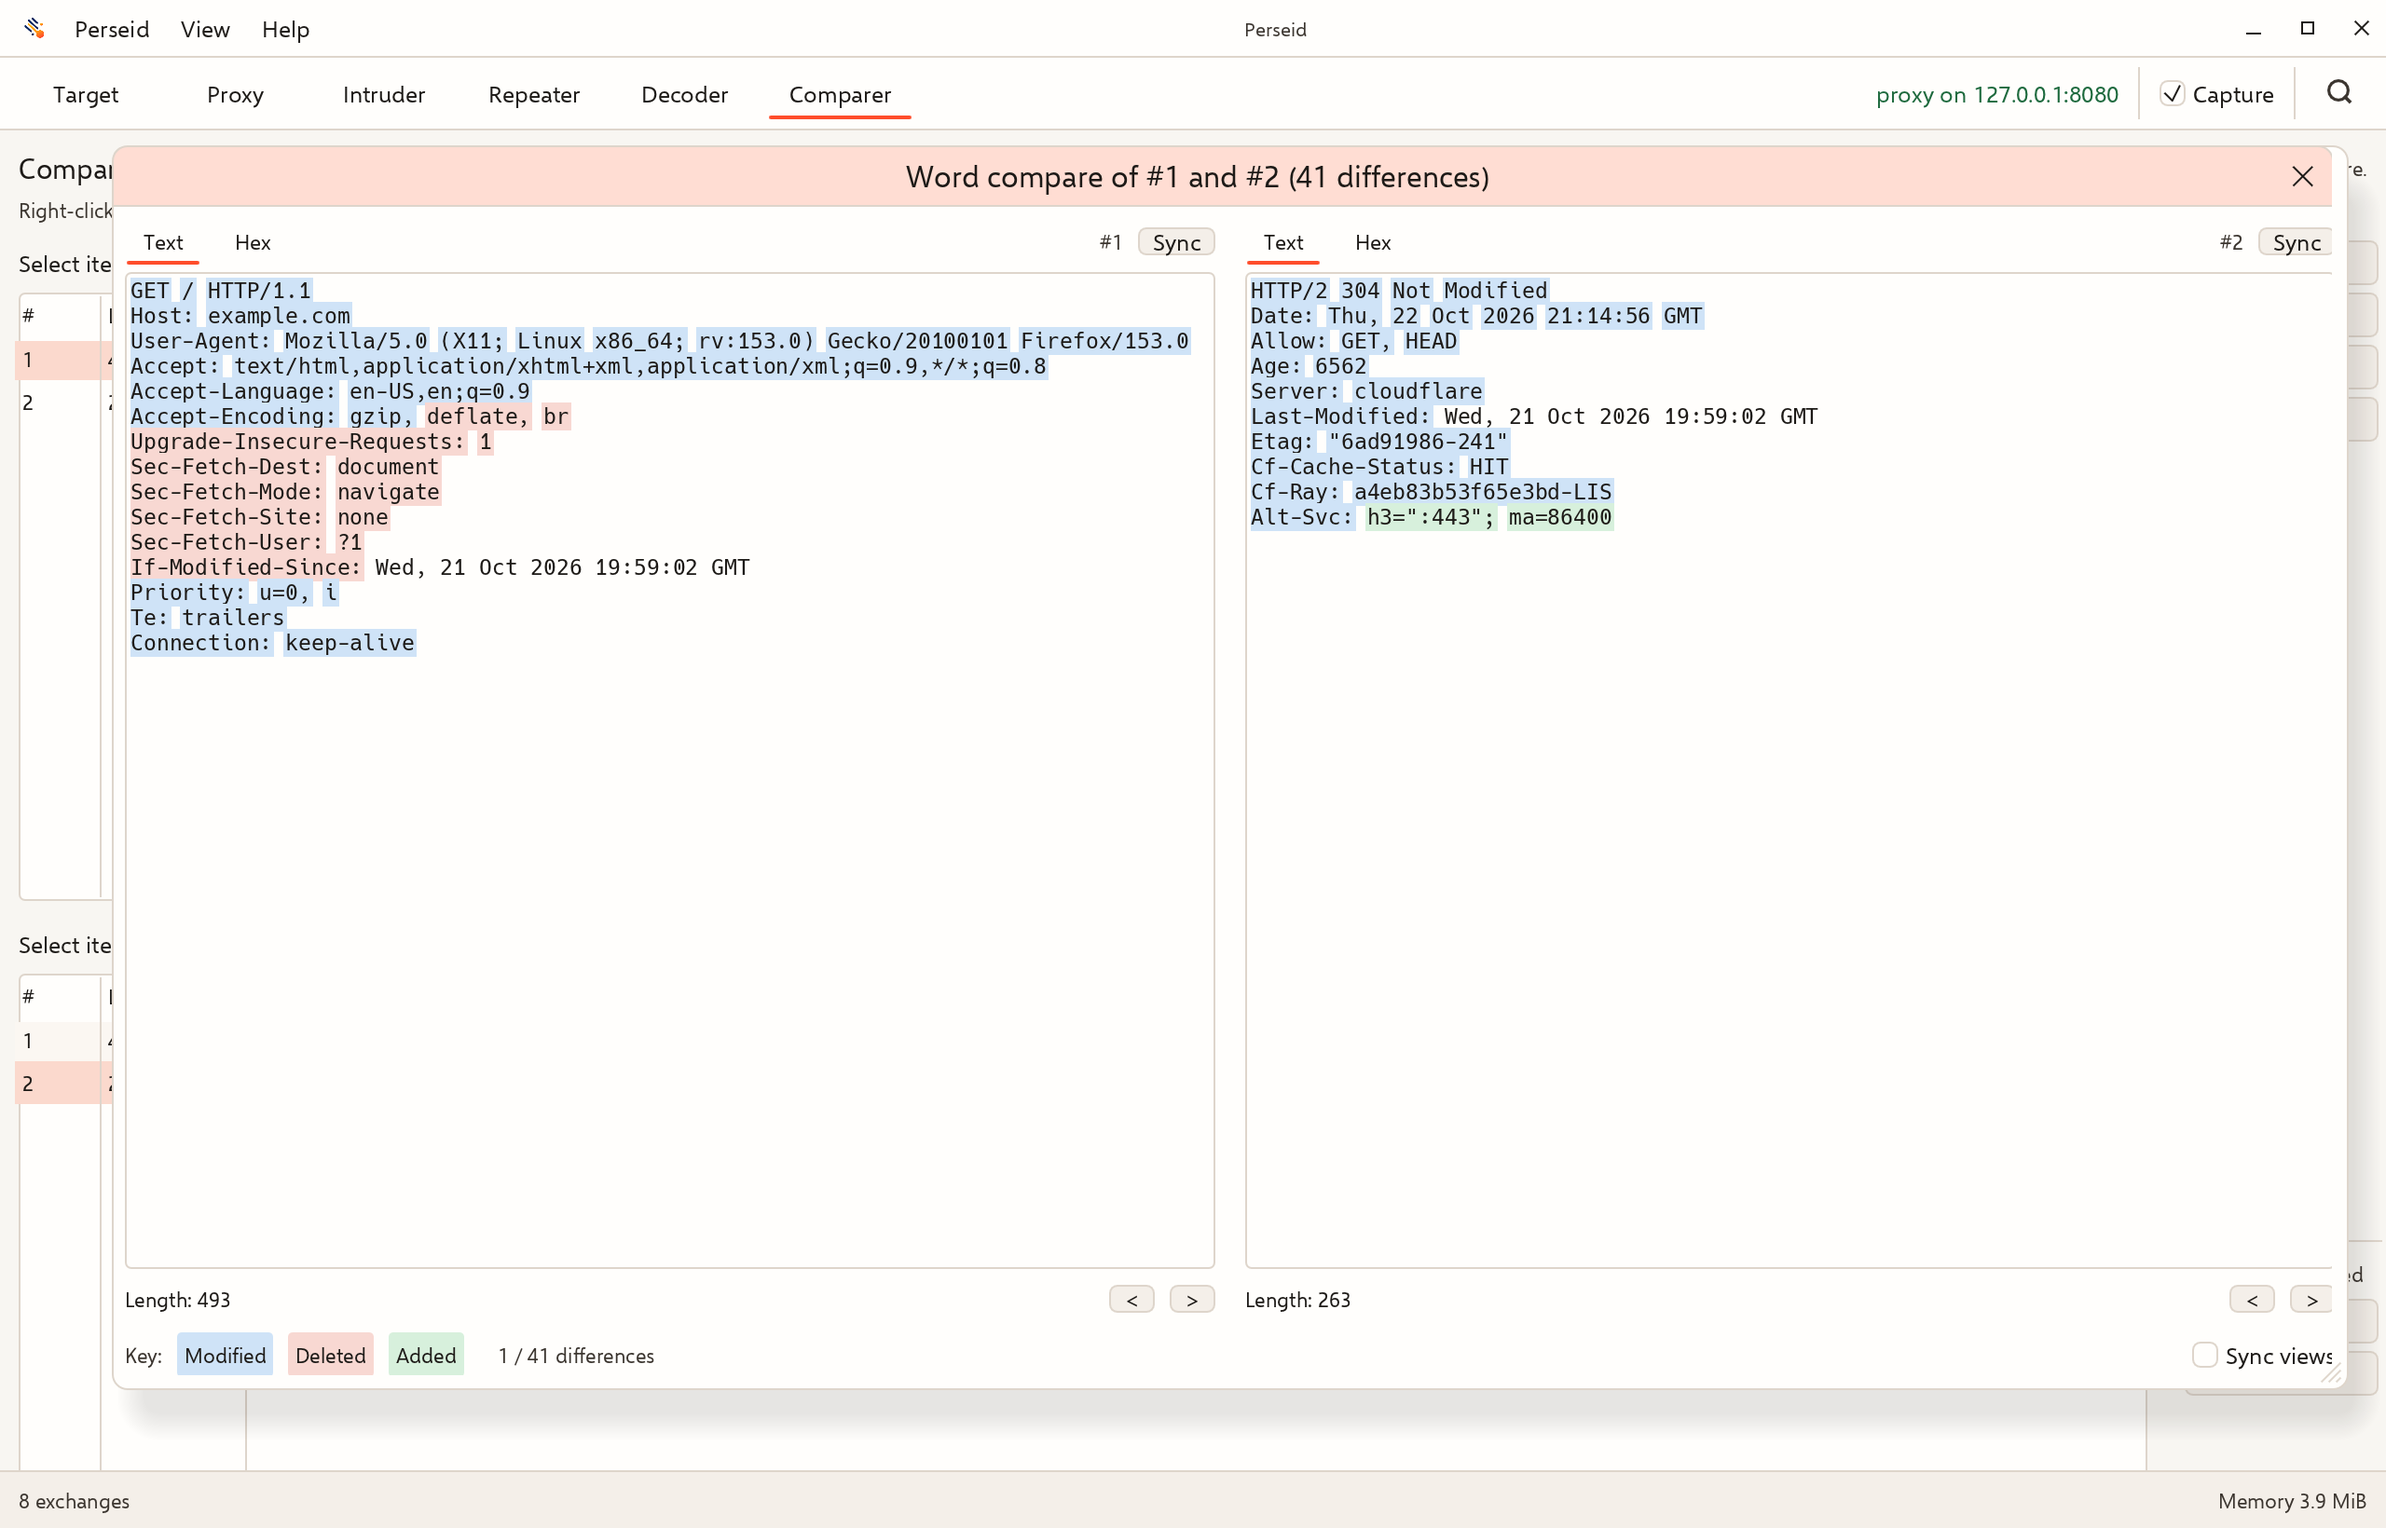
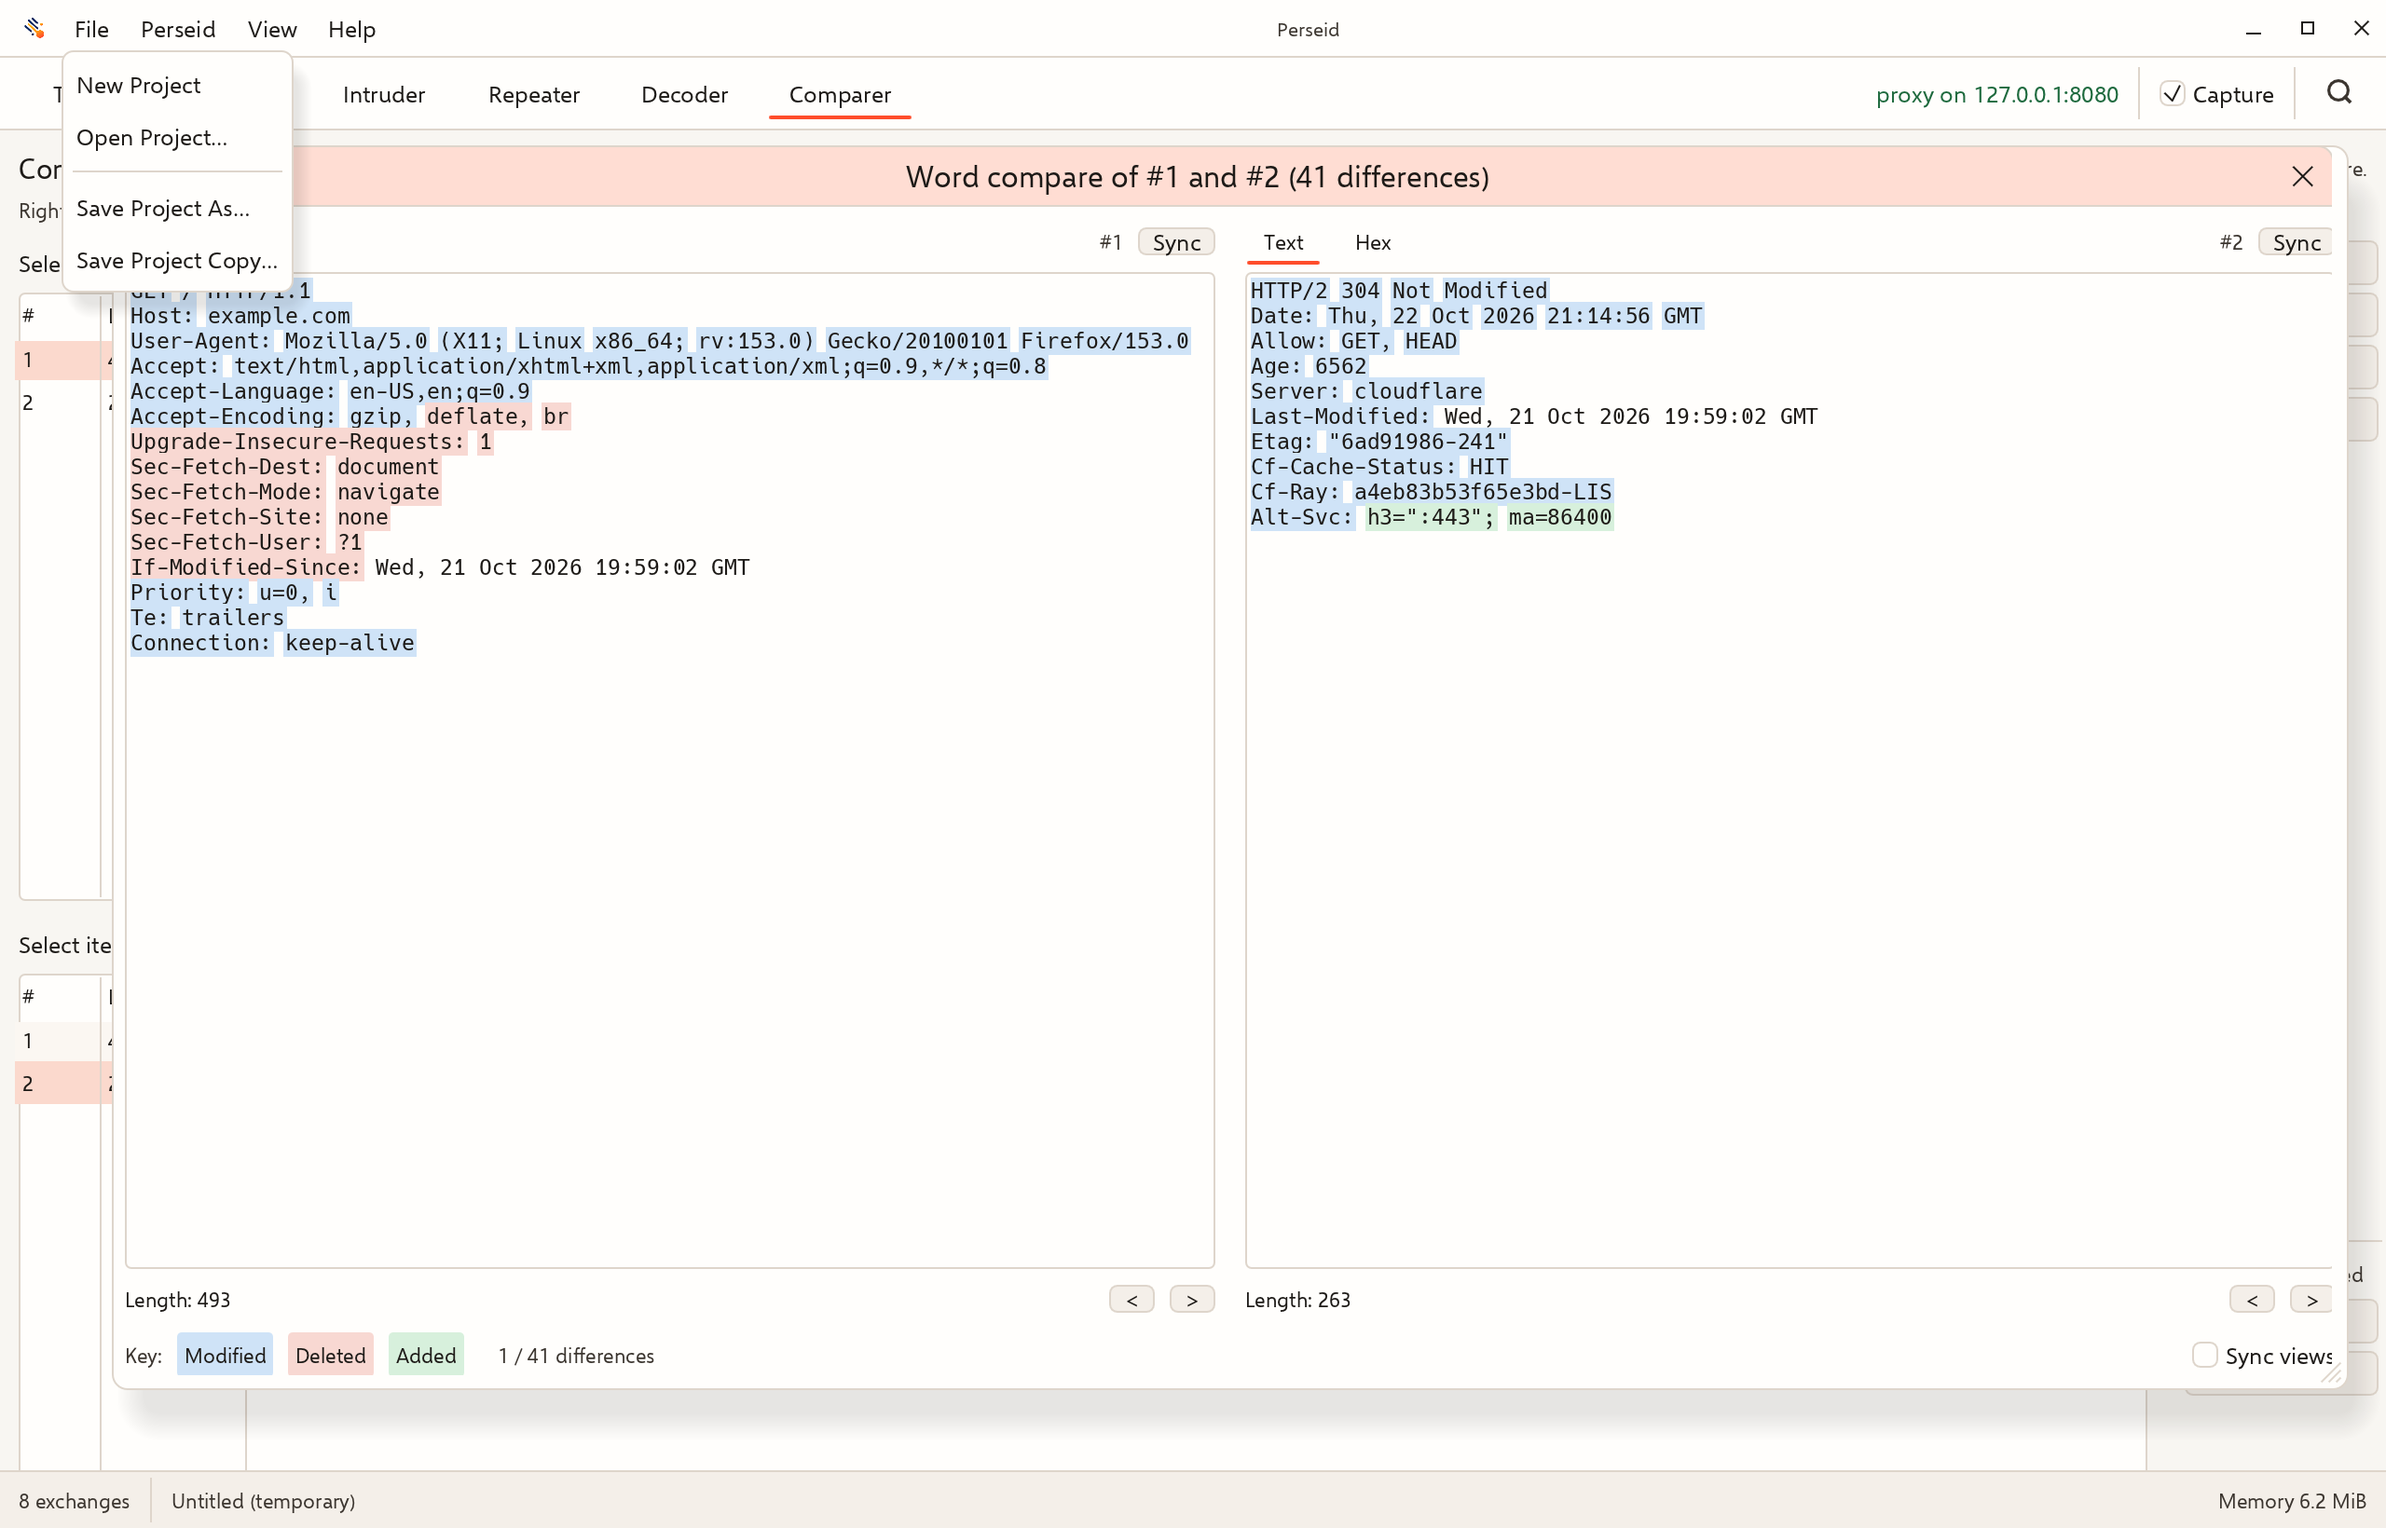
Fix the Windows path test and add the project screenshot scene
- Compare the copy-default path as a path, not a string: Windows renders
  the separator differently (`/tmp\session-copy.perseid`).
- Add a `perseid-project.png` scene with the File menu open over the HTTP
  history, showing New/Open/Save As/Save Copy and the temporary-project
  status. The screenshot driver forces the menu popup open; the hook is
  compiled only with the `screenshots` feature.
- Register the new scene in the CI preview list, the verifier and
  docs/screenshots.md, and regenerate docs/images.

Changed region(s): [[0.0312, 0.0, 0.1562, 0.2177], [0.0625, 0.964, 0.125, 0.9951], [0.5312, 0.0, 0.5625, 0.0311]]

diff --git a/crates/perseid/src/app/screenshots.rs b/crates/perseid/src/app/screenshots.rs
@@ -49,6 +49,7 @@ const TIMEOUT: Duration = Duration::from_secs(150);
 /// `docs/screenshots.md`, and add a label in the Screenshots workflow.
 const SCENE_FILES: &[&str] = &[
     MAIN_FILE,
+    "perseid-project.png",
     "perseid-target-site-map.png",
     "perseid-target-scope.png",
     "perseid-proxy-intercept.png",
@@ -313,17 +314,23 @@ impl PerseidApp {
         self.decoder = DecoderState::new();
         self.comparer = ComparerState::new();
         self.search = SearchState::default();
+        self.project.file_menu_forced_open = false;
 
         match index {
             // Proxy > HTTP history (the README scene).
             0 => {}
-            // Target > Site map.
+            // Projects: the File menu open over the HTTP history, with the
+            // temporary-project status visible in the status bar.
             1 => {
+                self.project.file_menu_forced_open = true;
+            }
+            // Target > Site map.
+            2 => {
                 self.main_tab = MainTab::Target;
                 self.target_section = TargetSection::SiteMap;
             }
             // Target > Scope.
-            2 => {
+            3 => {
                 self.main_tab = MainTab::Target;
                 self.target_section = TargetSection::Scope;
                 self.scope_enabled = true;
@@ -332,13 +339,13 @@ impl PerseidApp {
                 self.scope.insert("127.0.0.1:8090".to_string());
             }
             // Proxy > Intercept with a small queue of held messages.
-            3 => {
+            4 => {
                 self.main_tab = MainTab::Proxy;
                 self.proxy_section = ProxySection::Intercept;
                 self.seed_screenshot_intercepts();
             }
             // Proxy > Match/replace.
-            4 => {
+            5 => {
                 self.main_tab = MainTab::Proxy;
                 self.proxy_section = ProxySection::MatchReplace;
                 self.match_replace = vec![
@@ -369,19 +376,19 @@ impl PerseidApp {
                 ];
             }
             // Proxy > TLS.
-            5 => {
+            6 => {
                 self.main_tab = MainTab::Proxy;
                 self.proxy_section = ProxySection::Tls;
                 self.tls_intercept = true;
                 self.tls_passthrough.push("banking.example.com".to_string());
             }
             // Intruder with a populated template, payload set, and results.
-            6 => {
+            7 => {
                 self.main_tab = MainTab::Intruder;
                 self.intruder.seed_screenshot();
             }
             // Repeater with two seeded history requests.
-            7 => {
+            8 => {
                 self.main_tab = MainTab::Repeater;
                 for (tab_id, history_id) in [(1, 2), (2, 5)] {
                     let item = self.history.get(history_id).ok_or_else(|| {
@@ -396,30 +403,30 @@ impl PerseidApp {
                 }
             }
             // Decoder with Base64 and SHA-256 layers.
-            8 => {
+            9 => {
                 self.main_tab = MainTab::Decoder;
                 self.decoder.seed_screenshot();
             }
             // Comparer with a request and response selected.
-            9 => {
+            10 => {
                 self.main_tab = MainTab::Comparer;
                 self.comparer.seed_screenshot();
             }
             // Comparer result window for the same pair.
-            10 => {
+            11 => {
                 self.main_tab = MainTab::Comparer;
                 self.comparer.seed_screenshot();
                 self.comparer.open_screenshot_result();
             }
             // Proxy > WebSockets history with a JSON message selected.
-            11 => {
+            12 => {
                 self.main_tab = MainTab::Proxy;
                 self.proxy_section = ProxySection::WebSocketsHistory;
                 self.websocket_selected = Some(23);
                 self.websocket_view = MessageView::Pretty;
             }
             // Search with a decoded response body selected.
-            12 => {
+            13 => {
                 self.main_tab = MainTab::Proxy;
                 self.proxy_section = ProxySection::HttpHistory;
                 self.selected = Some(2);

diff --git a/crates/perseid/src/app/project_ui.rs b/crates/perseid/src/app/project_ui.rs
@@ -140,6 +140,9 @@ pub(super) struct ProjectUi {
     last_workspace_check: Instant,
     ui_limit: usize,
     ui_bytes: usize,
+    /// Documentation screenshots show the File menu open without input.
+    #[cfg(feature = "screenshots")]
+    pub(super) file_menu_forced_open: bool,
 }
 
 impl ProjectUi {
@@ -160,6 +163,8 @@ impl ProjectUi {
             last_workspace_check: Instant::now(),
             ui_limit,
             ui_bytes,
+            #[cfg(feature = "screenshots")]
+            file_menu_forced_open: false,
         };
         if ui.handle.is_none() {
             ui.notify_error("Persistence is unavailable for this session.");
@@ -503,7 +508,7 @@ fn rule_from_workspace(rule: &RuleWorkspace) -> MatchReplaceRule {
 impl PerseidApp {
     /// The File menu: project lifecycle commands live above Quit.
     pub(super) fn project_menu(&mut self, ui: &mut egui::Ui) {
-        ui.menu_button("File", |ui| {
+        let response = ui.menu_button("File", |ui| {
             if ui.button("New Project").clicked() {
                 self.project.open_dialog(ProjectDialogKind::New, None);
                 ui.close();
@@ -528,6 +533,11 @@ impl PerseidApp {
                 ui.close();
             }
         });
+        #[cfg(feature = "screenshots")]
+        if self.project.file_menu_forced_open {
+            egui::Popup::open_id(ui.ctx(), response.response.id.with("popup"));
+        }
+        let _ = response;
     }
 
     fn current_project_path(&self) -> Option<PathBuf> {
@@ -889,7 +899,12 @@ mod tests {
 
     #[test]
     fn copy_default_uses_the_source_name() {
-        let path = default_project_path(Some(Path::new("/tmp/session.perseid")), true);
-        assert_eq!(path, "/tmp/session-copy.perseid");
+        let source = Path::new("/tmp/session.perseid");
+        let path = default_project_path(Some(source), true);
+        // Compare paths, not strings: Windows renders the separator differently.
+        assert_eq!(
+            PathBuf::from(path),
+            source.with_file_name("session-copy.perseid")
+        );
     }
 }

diff --git a/scripts/check_screenshots.py b/scripts/check_screenshots.py
@@ -16,6 +16,7 @@ from pathlib import Path
 # name -> (expected width, minimum height, maximum height)
 FULL_WINDOW_SCENES = [
     "perseid-main.png",
+    "perseid-project.png",
     "perseid-proxy-websockets.png",
     "perseid-target-site-map.png",
     "perseid-target-scope.png",

diff --git a/docs/screenshots.md b/docs/screenshots.md
@@ -11,7 +11,7 @@ The main scenes are captured at 2× and saved at native resolution (2560×1640)
 for HiDPI displays; the memory panel is a smaller close-up. Screenshots
 illustrate the UI, not platform support or performance guarantees.
 
-[History](#proxy--http-history) · [Search](#search) ·
+[History](#proxy--http-history) · [Projects](#projects) · [Search](#search) ·
 [WebSockets history](#proxy--websockets-history) · [Intercept](#proxy--intercept) ·
 [Intruder](#intruder) · [Repeater](#repeater) · [Decoder](#decoder) ·
 [Comparer](#comparer) · [Comparer result](#comparer-result) · [Memory](#memory-usage)
@@ -22,6 +22,16 @@ The request and response editors open side by side, with the parsed Inspector
 on the right and per-exchange Notes behind its rail tab.
 
 ![Proxy HTTP history with request and response detail and the Inspector side panel](images/perseid-main.png)
+
+## Projects
+
+Perseid starts with a temporary in-memory project (`Untitled (temporary)` in
+the status bar). **File > Save Project As…** moves it into a single `.perseid`
+file; **Open Project…** switches to an existing one, and **Save Project
+Copy…** snapshots it into a new file. Once saved, captures and workbench state
+commit automatically, and the status bar shows the open project.
+
+![File menu with project commands over the HTTP history](images/perseid-project.png)
 
 ## Search
 
